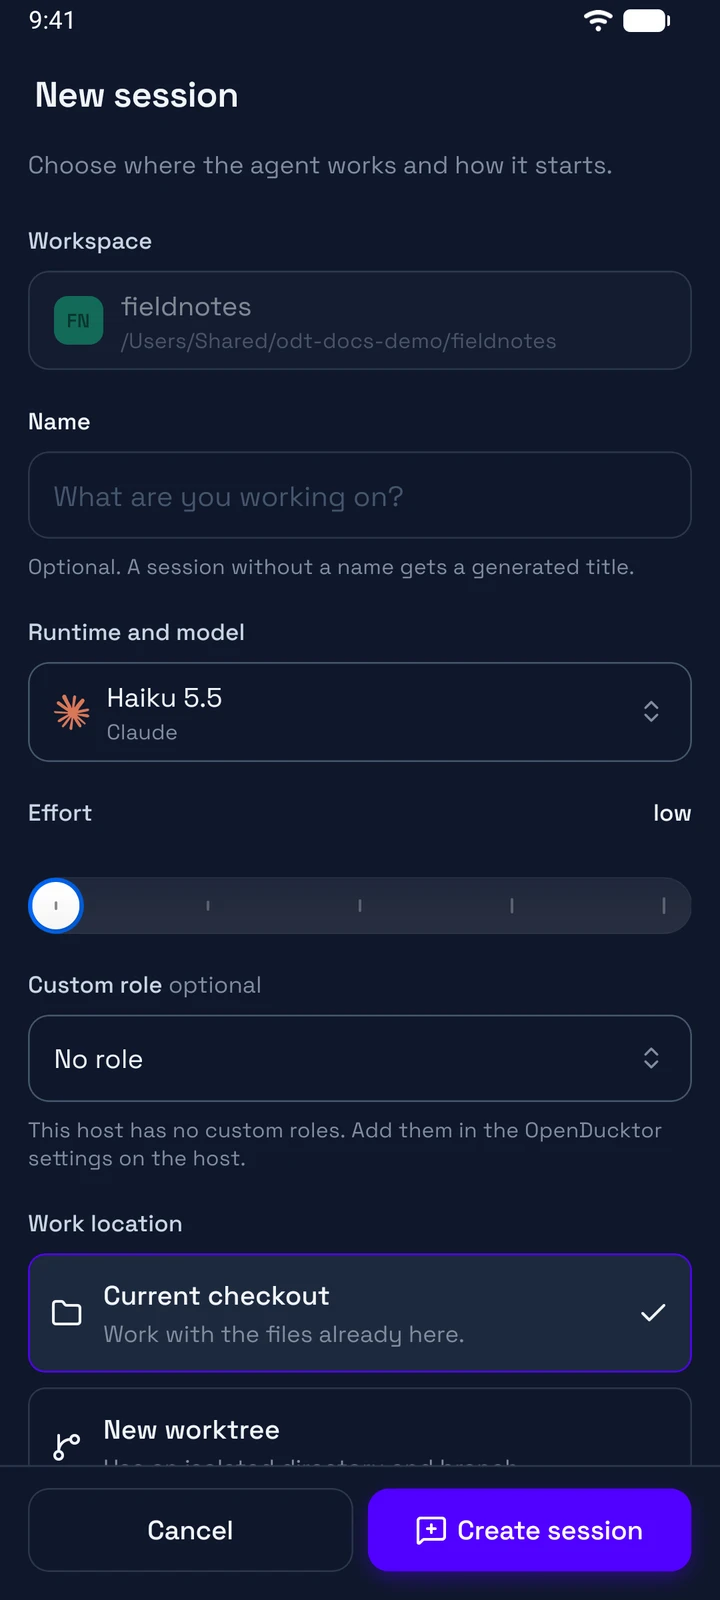
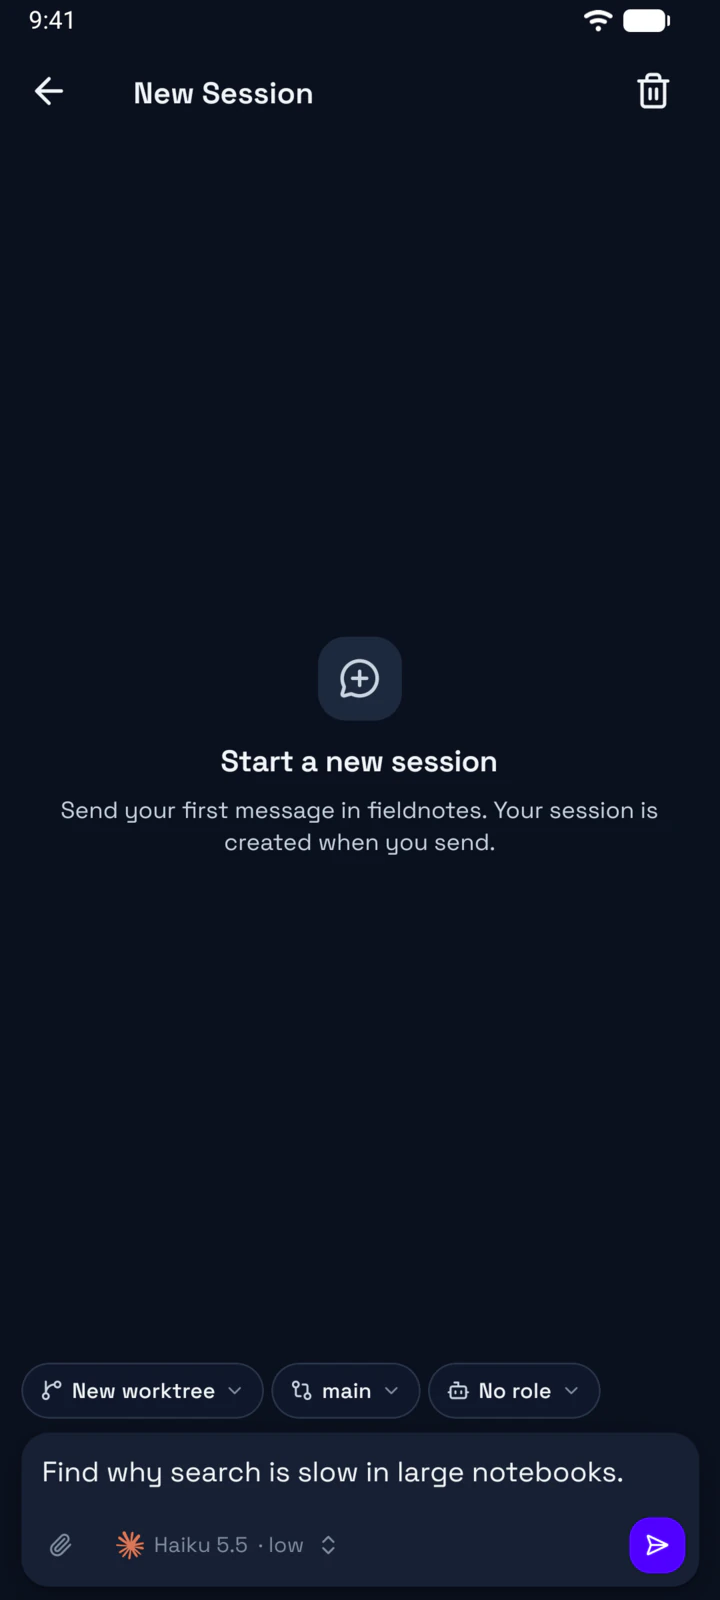
docs: document the draft page of new workspace sessions
Describe the draft page, the work location and branch modes, drafts, and
startup failures on desktop and on the phone, and capture the new phone
screen.

diff --git a/apps/docs-website/components/demo/product-demo.tsx b/apps/docs-website/components/demo/product-demo.tsx
@@ -11,7 +11,8 @@ const CAPTIONS = {
   runtimes: "Choose a model of another harness for a role.",
   autopilot: "Autopilot starts the next agent. You answer questions and approve the task.",
   chat: "A workspace session creates the missing tasks, then starts a Builder in the background.",
-  "new-session": "Start a session in a new worktree, then send the first message to the agent.",
+  "new-session":
+    "Choose a new worktree, then send the first message. The naming model names the branch and the session.",
   fork: "Fork a session from an earlier reply into a new worktree, then send another follow-up.",
   "import-session":
     "Import a Claude Code conversation of the repository, then continue it in OpenDucktor.",

diff --git a/docs/git-comparison.md b/docs/git-comparison.md
@@ -51,7 +51,7 @@ Existing workspaces keep their saved default target branch. A settings file from
 
 ## Workspace session target
 
-The New session dialog has a Target branch field for each work location. It preselects the repository default target branch and marks it in the list. Only Current checkout offers Tracked upstream. A change to New worktree or Existing worktree replaces a Tracked upstream choice with the repository default.
+The draft page of a new workspace session has one Target branch control. It preselects the repository default target branch and marks it in the list. Only Current checkout offers Tracked upstream. A change to New worktree or Existing worktree replaces a Tracked upstream choice with the repository default.
 
 The session saves its target in its record on the host. Every client of the host shows the same target. The target stays after an app reload, a host restart, an archive, and a restore. A later change of the repository default does not change a saved target.
 
